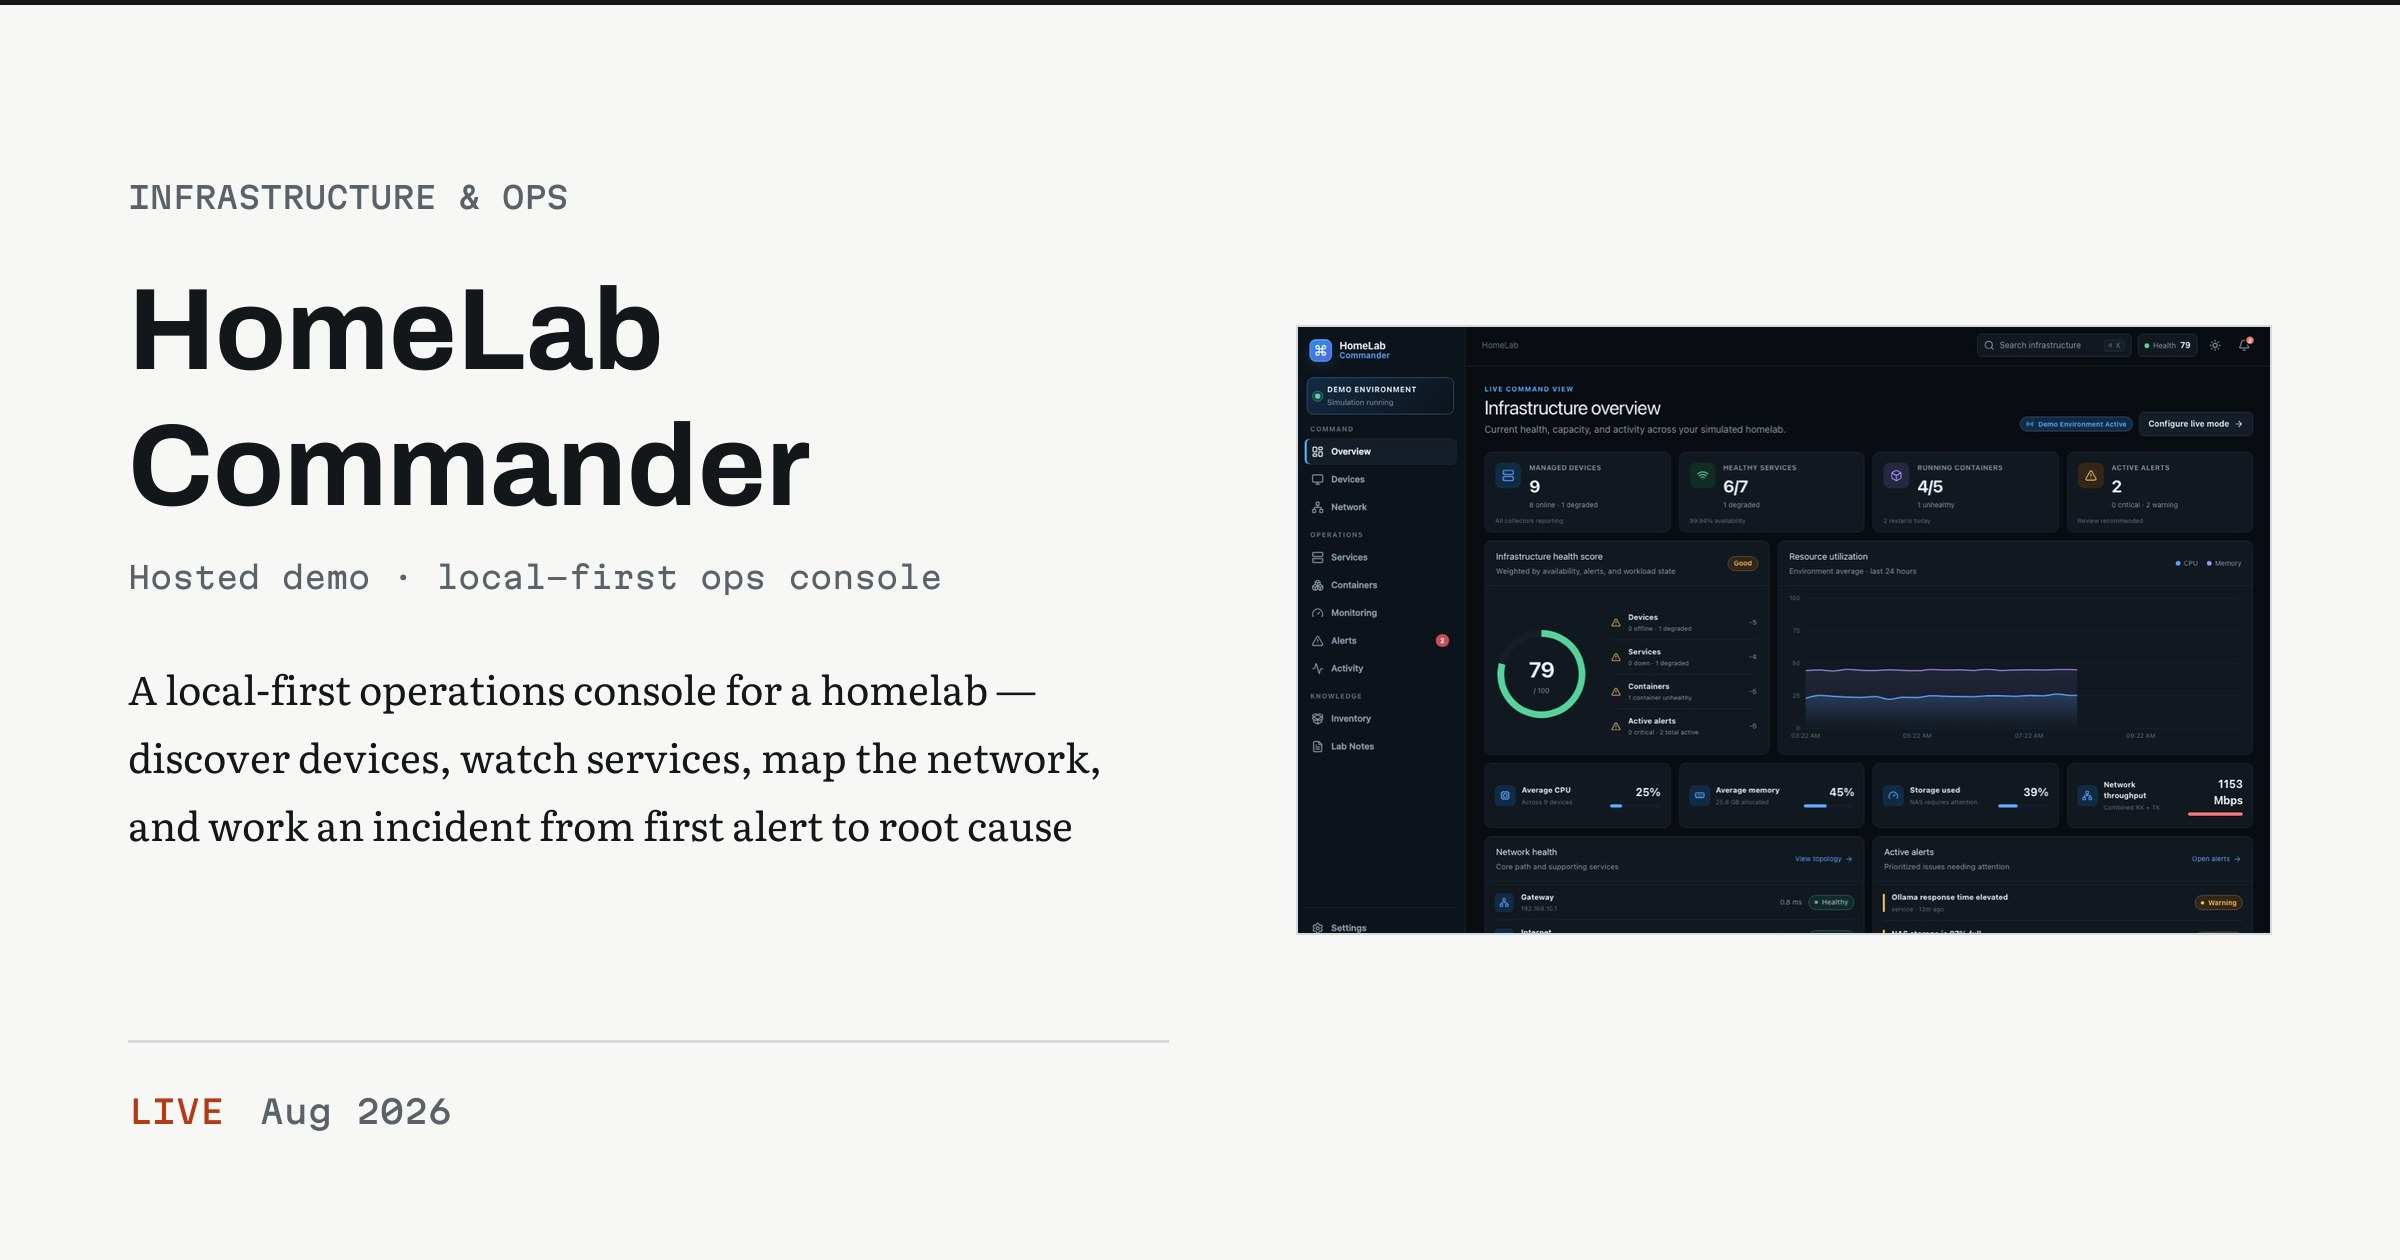
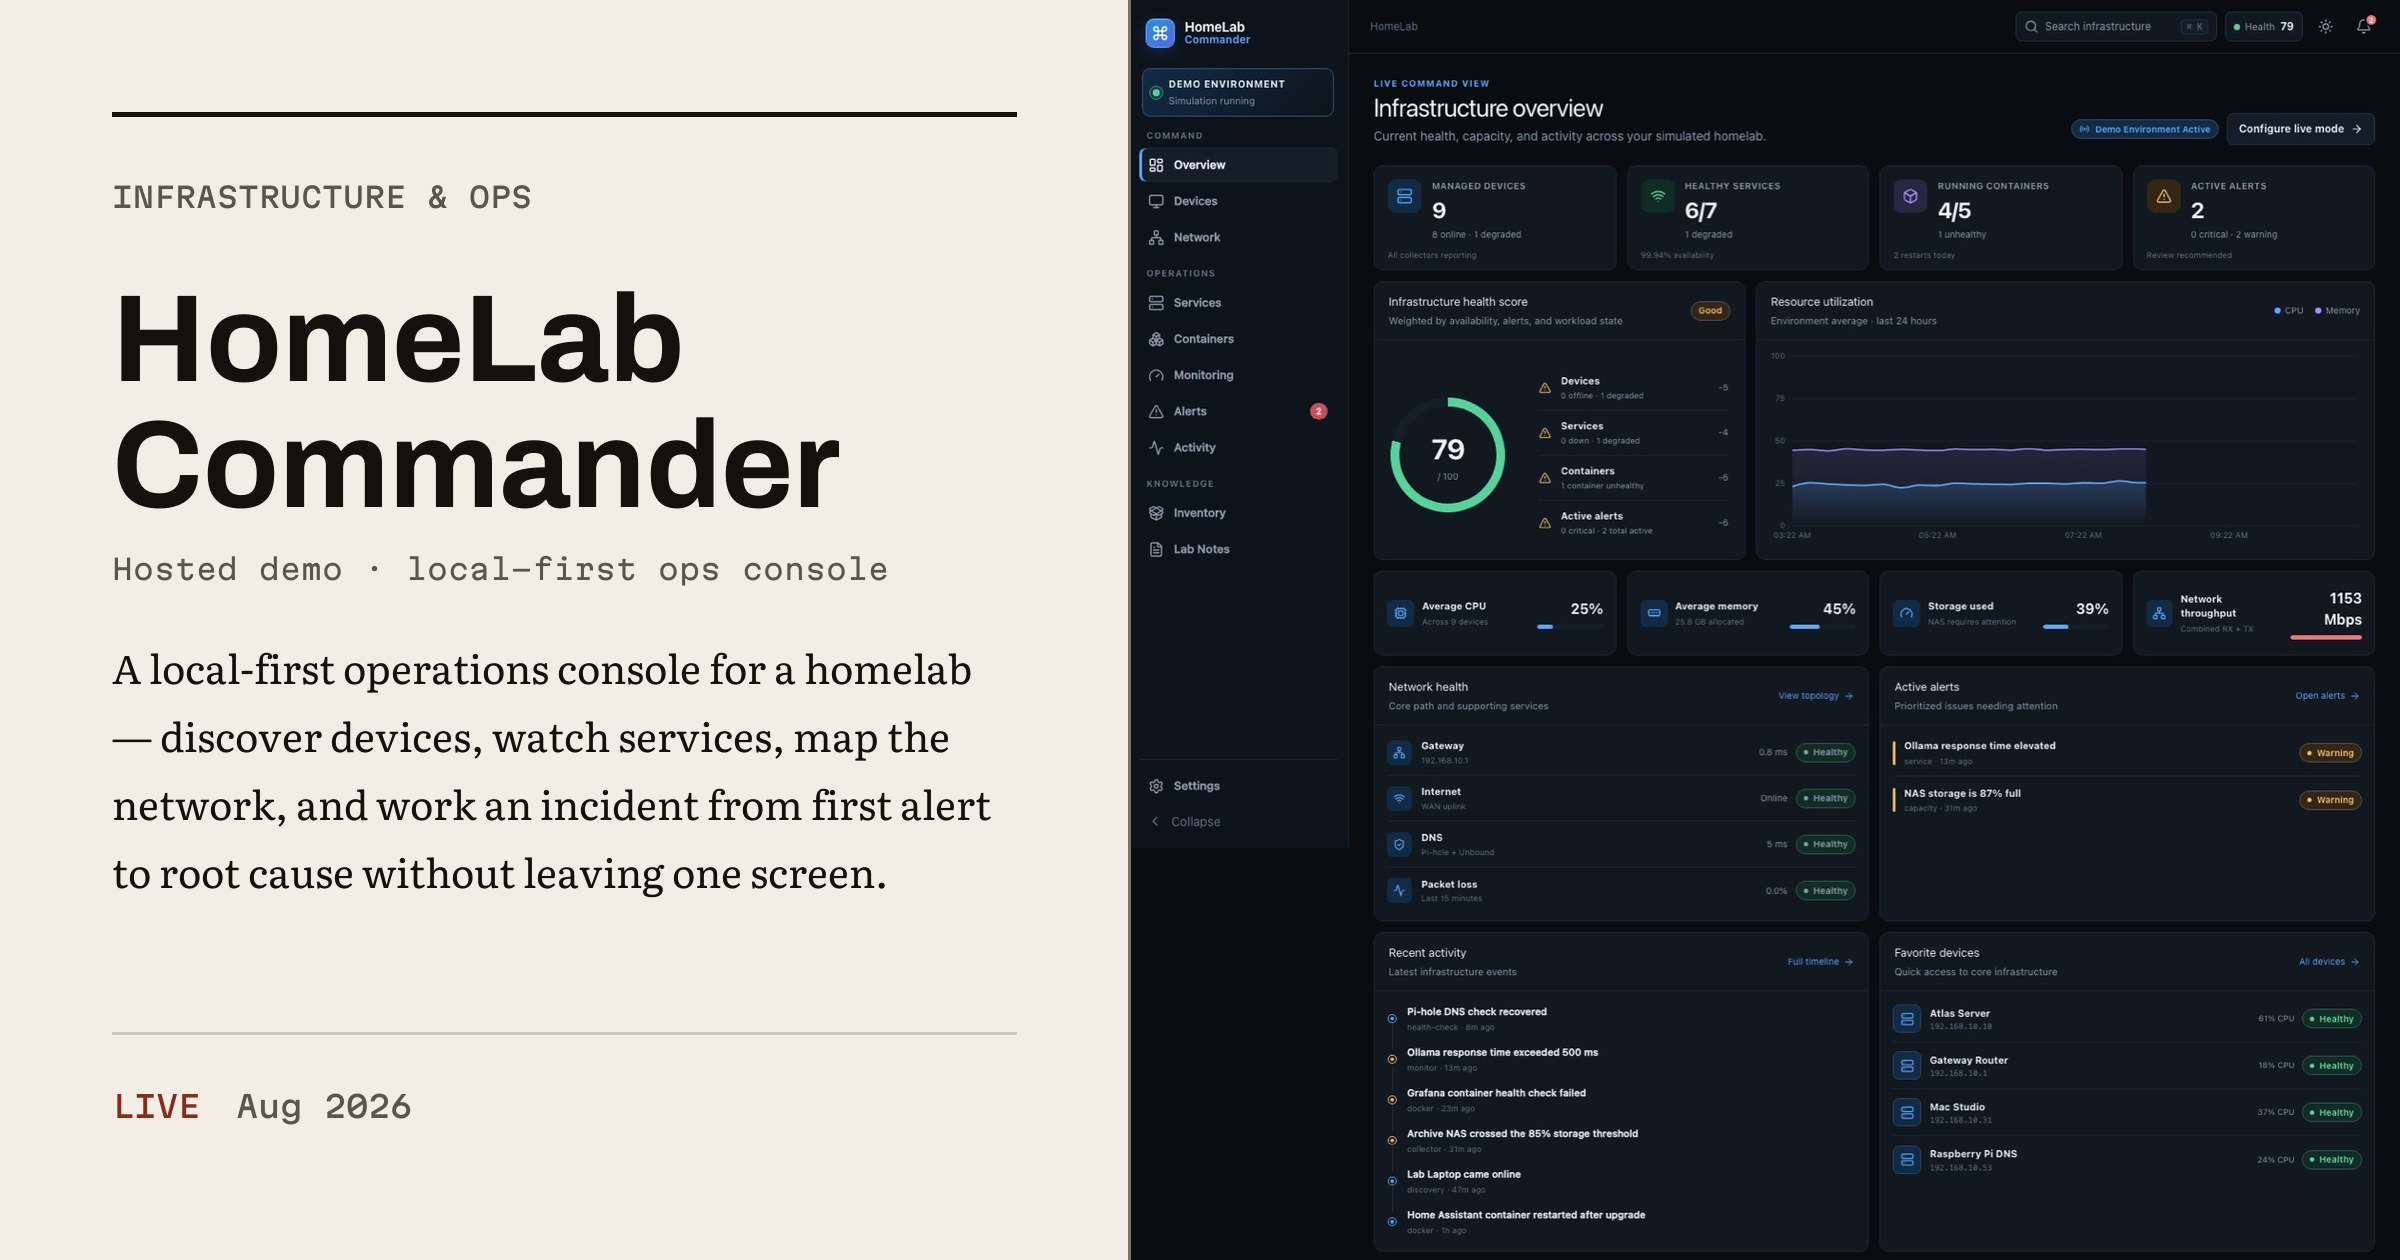
feat: align social cards with editorial spatial design

diff --git a/scripts/make-og-images.py b/scripts/make-og-images.py
@@ -15,6 +15,11 @@ invents a metric, a status, a date or a description.
 
 Fonts are vendored under scripts/fonts/ so this renders identically anywhere
 with no network access — see scripts/fonts/README.md.
+
+The cards follow the site's C2 "Editorial Spatial" system: production tokens,
+the display ramp, and the F2 footprint translated to a 2400x1260 canvas — text
+composed left, a genuine screenshot dominating the right and bleeding off three
+edges. No inset panel, no invented metric, no generated imagery.
 """
 import os, re, sys
 from PIL import Image, ImageDraw, ImageFont, ImageOps
@@ -29,14 +34,14 @@ S = 2                      # 2x for retina
 W, H = 1200 * S, 630 * S
 
 # The design system's tokens, straight from src/index.css. Nothing else.
-PAPER    = (0xF7, 0xF7, 0xF5)
+PAPER    = (0xF2, 0xEE, 0xE6)   # warm page ground
 SURFACE  = (0xFF, 0xFF, 0xFF)
-INSET    = (0xEF, 0xEF, 0xEC)
-INK      = (0x14, 0x17, 0x1A)
-GRAPHITE = (0x5A, 0x61, 0x69)
-RULE     = (0xD6, 0xD9, 0xDD)
-BOUNDARY = (0x7F, 0x86, 0x8F)
-SIGNAL   = (0xB2, 0x3A, 0x16)
+INSET    = (0xE8, 0xE2, 0xD6)
+INK      = (0x14, 0x11, 0x0D)   # warm near-black
+GRAPHITE = (0x5C, 0x55, 0x4A)
+RULE     = (0xCF, 0xC7, 0xB8)   # decorative hairlines only
+BOUNDARY = (0x7C, 0x73, 0x64)   # the identifying edge of a control
+ACCENT   = (0x8A, 0x2B, 0x18)   # oxblood
 VERIFIED = (0x1F, 0x4B, 0x99)
 
 
@@ -62,14 +67,33 @@ def font(file, size, weight, width=None):
 
 
 # Type roles mirror DESIGN.md: Archivo for structure, Literata for prose,
-# Martian Mono for identifiers.
-f_title   = font("Archivo-var.ttf", 58, 700)
-f_name    = font("Archivo-var.ttf", 66, 700)
-f_label   = font("MartianMono-var.ttf", 15, 500)
-f_tagline = font("MartianMono-var.ttf", 15, 400)
-f_meta    = font("MartianMono-var.ttf", 16, 500)
+# Martian Mono for identifiers. Sizes are in points and multiplied by S, so a
+# 60 here is 120px on the 2400px canvas — the proportional equivalent of the
+# site's --d-major at a 1920 viewport.
+f_label   = font("MartianMono-var.ttf", 14, 500)
+f_tagline = font("MartianMono-var.ttf", 14, 400)
+f_meta    = font("MartianMono-var.ttf", 15, 500)
 f_prose   = font("Literata-var.ttf", 20, 400)
-f_role    = font("Literata-var.ttf", 24, 400)
+f_role    = font("Literata-var.ttf", 26, 400)
+
+# Display type is fitted per title rather than pinned, so a long name steps
+# down instead of wrapping to three lines or overflowing its column.
+TITLE_STEPS = [62, 58, 54, 50, 46, 42]
+NAME_STEPS  = [84, 78, 72, 66, 60]
+
+
+def fit(draw, text, steps, max_w, max_lines, file="Archivo-var.ttf", weight=700,
+        overflow=0):
+    """Largest step whose wrap fits max_lines within max_w (+overflow, which is
+    the deliberate edge crop the hero uses). Falls back to the smallest step."""
+    for pt in steps:
+        f = font(file, pt, weight)
+        lines = wrap(draw, text, f, max_w + overflow)
+        if len(lines) <= max_lines and all(
+                draw.textlength(l, font=f) <= max_w + overflow for l in lines):
+            return f, lines, pt
+    f = font(file, steps[-1], weight)
+    return f, wrap(draw, text, f, max_w + overflow)[:max_lines], steps[-1]
 
 MONTHS = ["Jan", "Feb", "Mar", "Apr", "May", "Jun",
           "Jul", "Aug", "Sep", "Oct", "Nov", "Dec"]
@@ -127,58 +151,87 @@ def updated_label(updated):
 def status_color(status):
     """Live reads as available now; the others stay quiet — same rule the
     cards on the site follow."""
-    return SIGNAL if status == "Live" else GRAPHITE
+    return ACCENT if status == "Live" else GRAPHITE
 
 
 def build(p):
+    """F2 on a 2400x1260 canvas: text composed left, the real screenshot
+    dominating the right and bleeding off the top, right and bottom edges."""
     img = Image.new("RGB", (W, H), PAPER)
     d = ImageDraw.Draw(img)
 
-    # The site's one structural divider: a 2px ink rule across the top.
-    d.rectangle([0, 0, W, 2 * S], fill=INK)
+    pad = 56 * S
+    shot_x = round(W * 0.47)           # screenshot takes the right 53%
+    text_w = shot_x - pad * 2
 
-    pad = 64 * S
-    panel_w = int(W * 0.46) - pad
-    x = pad
-    text_w = W - panel_w - pad * 3
-
-    # Evidence panel: the real screenshot, square corners, hairline border,
-    # 16:10 like .evi__figure img on the homepage.
+    # The screenshot is the composition, not an inset: it takes the right
+    # 55%, bleeds off the top and right edges, and keeps its own aspect ratio.
+    # Forcing it to bleed off the bottom as well would mean cropping a 16:10
+    # source into a 1:1 slot, which upscales 1.4x and cuts a third of the
+    # interface away — the opposite of evidence. Top-aligned, like
+    # .pcard--right .pcard-shot { align-self: start }.
     if p["image"]:
         src = os.path.join(IMGS, p["image"])
         if os.path.exists(src):
-            ph = round(panel_w * 10 / 16)
-            shot = ImageOps.fit(Image.open(src).convert("RGB"), (panel_w, ph),
-                                method=Image.LANCZOS, centering=(0.5, 0.0))
-            px, py = W - panel_w - pad, (H - ph) // 2
-            img.paste(shot, (px, py))
-            d.rectangle([px, py, px + panel_w - 1, py + ph - 1], outline=RULE, width=1 * S)
+            source = Image.open(src).convert("RGB")
+            sw = W - shot_x
+            # Natural height for the source's own aspect, floored at 76% of the
+            # canvas so the shot has real presence. That floor crops at most
+            # ~15% off a 16:10 screenshot's right edge, which the left-top
+            # anchor keeps clear of the interface.
+            sh = min(H, max(round(sw * source.height / source.width),
+                            round(H * 0.76)))
+            shot = ImageOps.fit(source, (sw, sh), method=Image.LANCZOS,
+                                centering=(0.0, 0.0))
+            img.paste(shot, (shot_x, 0))
+            # Boundary, not Rule: this is the edge of real evidence, and it is
+            # the only edge the image has left now that two sides bleed away.
+            d.rectangle([shot_x, 0, shot_x + 1 * S, sh], fill=BOUNDARY)
+            d.rectangle([shot_x, sh, W, sh + 1 * S], fill=BOUNDARY)
 
-    # Build the left column as a measured block first, so it can be centred
-    # against the panel instead of hanging from the top with dead space below.
-    block = [(p["category"].upper(), f_label, GRAPHITE, 44 * S)]
-    for line in wrap(d, p["title"], f_title, text_w)[:2]:
-        block.append((line, f_title, INK, 68 * S))
-    if p["tagline"]:
-        block[-1] = (*block[-1][:3], block[-1][3] + 10 * S)
-        for line in wrap(d, p["tagline"], f_tagline, text_w)[:2]:
-            block.append((line, f_tagline, GRAPHITE, 27 * S))
+    # A 2px ink rule across the text column only — the site's section divider,
+    # not a frame. It never crosses the screenshot.
+    d.rectangle([pad, pad, pad + text_w, pad + 2 * S], fill=INK)
+
+    foot_y = H - pad - 30 * S
+    rule_y = foot_y - 28 * S
+
+    y = pad + 34 * S
+    d.text((pad, y), p["category"].upper(), font=f_label, fill=GRAPHITE)
+    y += 46 * S
+
+    f_title, lines, pt = fit(d, p["title"], TITLE_STEPS, text_w, 2)
+    for line in lines:
+        d.text((pad, y), line, font=f_title, fill=INK)
+        y += round(pt * 1.02) * S
+    y += 14 * S
+
+    tag_lines = wrap(d, p["tagline"], f_tagline, text_w) if p["tagline"] else []
+    for line in tag_lines:
+        d.text((pad, y), line, font=f_tagline, fill=GRAPHITE)
+        y += 26 * S
+    if tag_lines:
+        y += 16 * S
+
+    # The summary is one whole sentence and is never cut. It steps down through
+    # the reading ramp until it fits the space left above the foot rule, so a
+    # long first sentence sets smaller rather than stopping mid-clause.
     if p["summary"]:
-        block[-1] = (*block[-1][:3], block[-1][3] + 22 * S)
-        for line in wrap(d, p["summary"], f_prose, text_w)[:3]:
-            block.append((line, f_prose, INK, 34 * S))
+        room = rule_y - 40 * S - y
+        for pts in (20, 19, 18, 17, 16):
+            fp = font("Literata-var.ttf", pts, 400)
+            step = round(pts * 1.7) * S
+            sum_lines = wrap(d, p["summary"], fp, text_w)
+            if len(sum_lines) * step <= room:
+                break
+        for line in sum_lines:
+            d.text((pad, y), line, font=fp, fill=INK)
+            y += step
 
-    foot_y = H - pad - 20 * S
-    rule_y = foot_y - 26 * S
-    height = sum(step for _, _, _, step in block)
-    y = max(pad + 8 * S, (rule_y - height) // 2)
-
-    for text, fnt, fill, step in block:
-        d.text((x, y), text, font=fnt, fill=fill)
-        y += step
-
-    # Status and date sit in their own position at the foot — never a badge.
-    d.rectangle([x, rule_y, x + text_w, rule_y + 1 * S], fill=RULE)
+    # Status and date pin to the foot; the slack between them and the block
+    # above is the intentional void, exactly like the footprint's trailing row.
+    d.rectangle([pad, rule_y, pad + text_w, rule_y + 1 * S], fill=RULE)
+    x = pad
     if p["status"]:
         d.text((x, foot_y), p["status"].upper(), font=f_meta, fill=status_color(p["status"]))
         x += d.textlength(p["status"].upper(), font=f_meta) + 18 * S
@@ -209,43 +262,51 @@ def site_role():
 
 
 def build_cover(projects):
-    """The site-wide card used for / and every non-project page."""
+    """The site-wide card used for / and every non-project page. Follows the
+    production hero and Background: identity at display scale with the first
+    line cropped past the left edge, and the portrait at real scale bleeding
+    off the right."""
     img = Image.new("RGB", (W, H), PAPER)
     d = ImageDraw.Draw(img)
-    d.rectangle([0, 0, W, 2 * S], fill=INK)
 
-    pad = 64 * S
-    D = 340 * S                      # square headshot — zero radius, like the site
-    x = pad
-    text_w = W - D - pad * 3
+    pad = 56 * S
+    port_x = round(W * 0.635)          # portrait takes the right ~36.5%
+    text_w = port_x - pad * 2
 
-    block = [(site_domain().upper(), f_label, GRAPHITE, 50 * S)]
-    for line in ("Chadwick (Chad)", "Kraus"):
-        block.append((line, f_name, INK, 76 * S))
+    # Portrait at column scale, bleeding off the top, right and bottom, the way
+    # the Background section runs it through the gutter.
+    photo = ImageOps.fit(Image.open(os.path.join(IMGS, "headshot.jpg")).convert("RGB"),
+                         (W - port_x, H), method=Image.LANCZOS, centering=(0.5, 0.30))
+    img.paste(photo, (port_x, 0))
+    d.rectangle([port_x, 0, port_x + 1 * S, H], fill=BOUNDARY)
+
+    d.rectangle([pad, pad, pad + text_w, pad + 2 * S], fill=INK)
+
+    y = pad + 34 * S
+    d.text((pad, y), site_domain().upper(), font=f_label, fill=GRAPHITE)
+    y += 52 * S
+
+    # The identity is allowed to crop past the left edge, as it does on the
+    # homepage. Line one hangs; line two is indented, same as .l1 / .l2.
+    crop = 26 * S
+    f_id, _, npt = fit(d, "Chadwick (Chad)", NAME_STEPS, text_w, 1, overflow=crop)
+    for i, line in enumerate(("Chadwick (Chad)", "Kraus")):
+        d.text((pad - crop if i == 0 else pad + 18 * S, y), line, font=f_id, fill=INK)
+        y += round(npt * 0.92) * S
+    y += 26 * S
+
     role = site_role()
     if role:
-        block[-1] = (*block[-1][:3], block[-1][3] + 20 * S)
         for line in wrap(d, role, f_role, text_w)[:4]:
-            block.append((line, f_role, GRAPHITE, 38 * S))
-
-    foot_y = H - pad - 20 * S
-    rule_y = foot_y - 26 * S
-    height = sum(step for _, _, _, step in block)
-    y = max(pad + 8 * S, (rule_y - height) // 2)
-    for text, fnt, fill, step in block:
-        d.text((x, y), text, font=fnt, fill=fill)
-        y += step
+            d.text((pad, y), line, font=f_role, fill=GRAPHITE)
+            y += 40 * S
 
     # Featured projects, taken from the top of projects.js so they stay current.
-    d.rectangle([x, rule_y, x + text_w, rule_y + 1 * S], fill=RULE)
-    d.text((x, foot_y), "  ·  ".join(p["title"] for p in projects[:3]),
+    foot_y = H - pad - 30 * S
+    rule_y = foot_y - 28 * S
+    d.rectangle([pad, rule_y, pad + text_w, rule_y + 1 * S], fill=RULE)
+    d.text((pad, foot_y), "  ·  ".join(p["title"] for p in projects[:3]),
            font=f_meta, fill=GRAPHITE)
-
-    photo = ImageOps.fit(Image.open(os.path.join(IMGS, "headshot.jpg")).convert("RGB"),
-                         (D, D), method=Image.LANCZOS, centering=(0.5, 0.4))
-    px, py = W - D - pad, (H - D) // 2
-    img.paste(photo, (px, py))
-    d.rectangle([px, py, px + D - 1, py + D - 1], outline=RULE, width=1 * S)
 
     dest = os.path.join(ROOT, "public", "og-image.png")
     img.save(dest, optimize=True)
